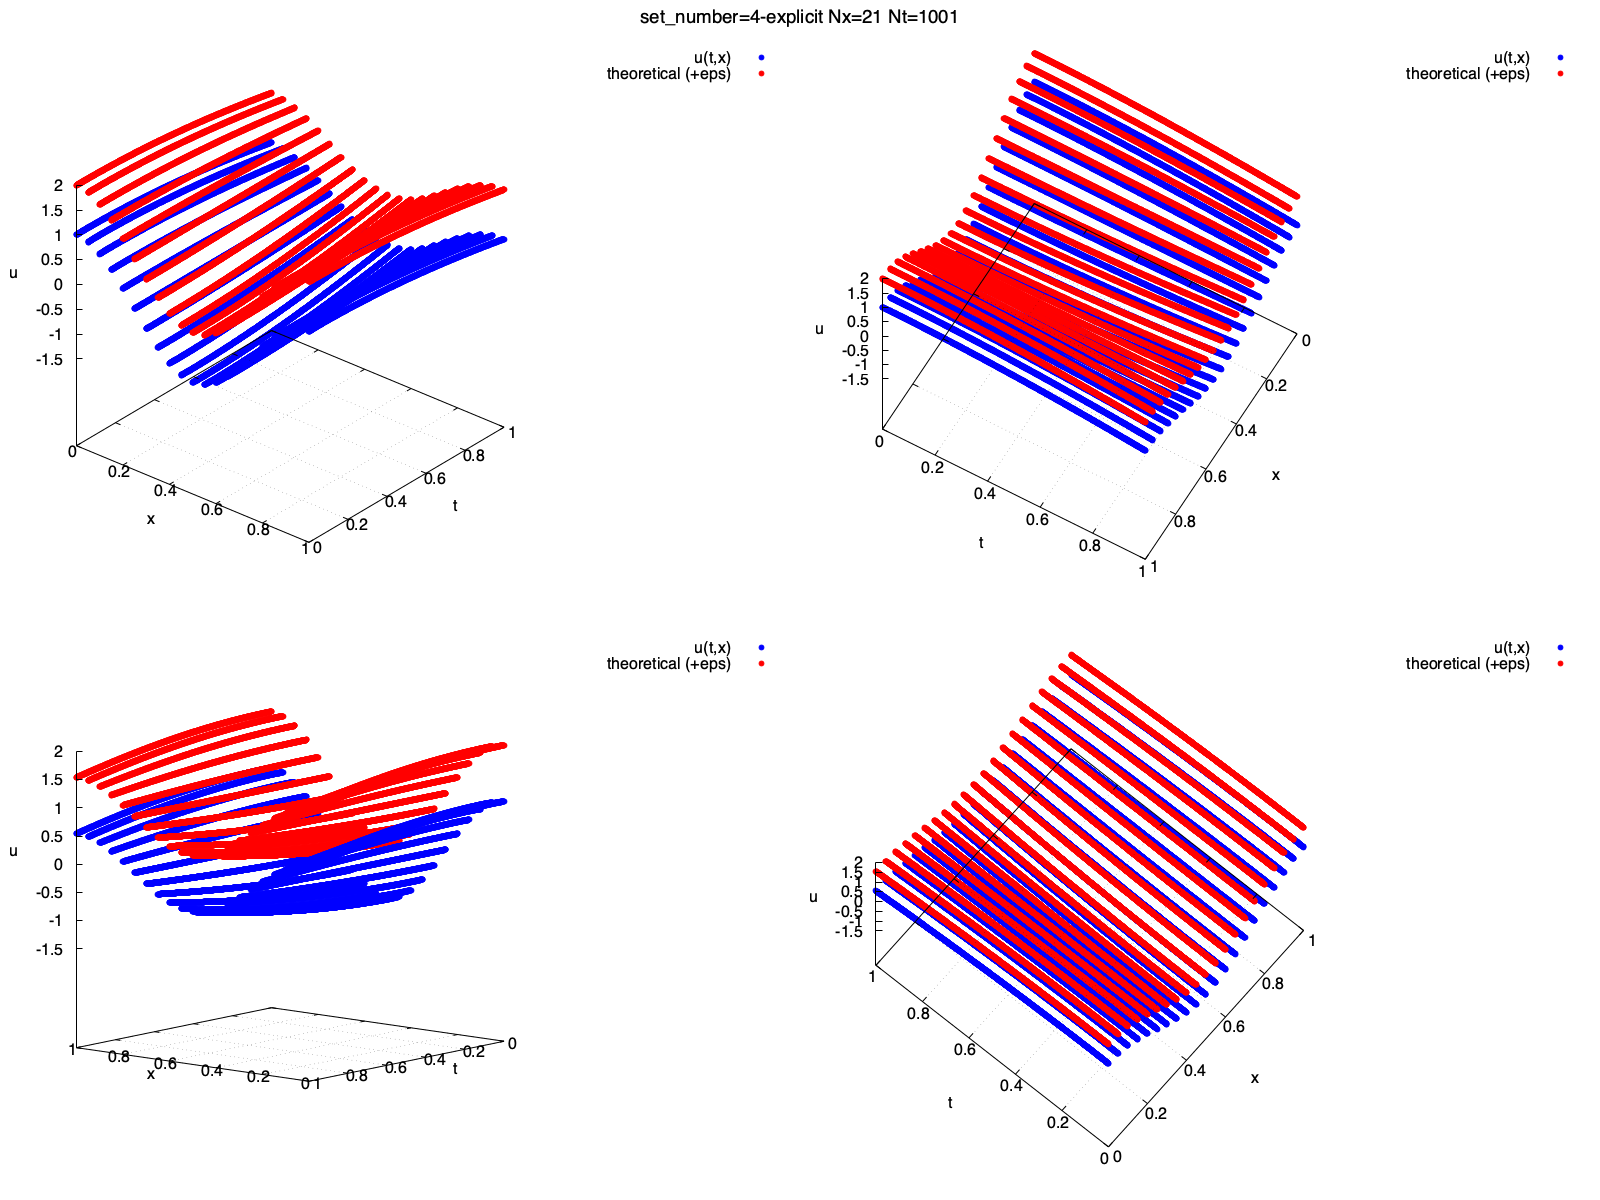
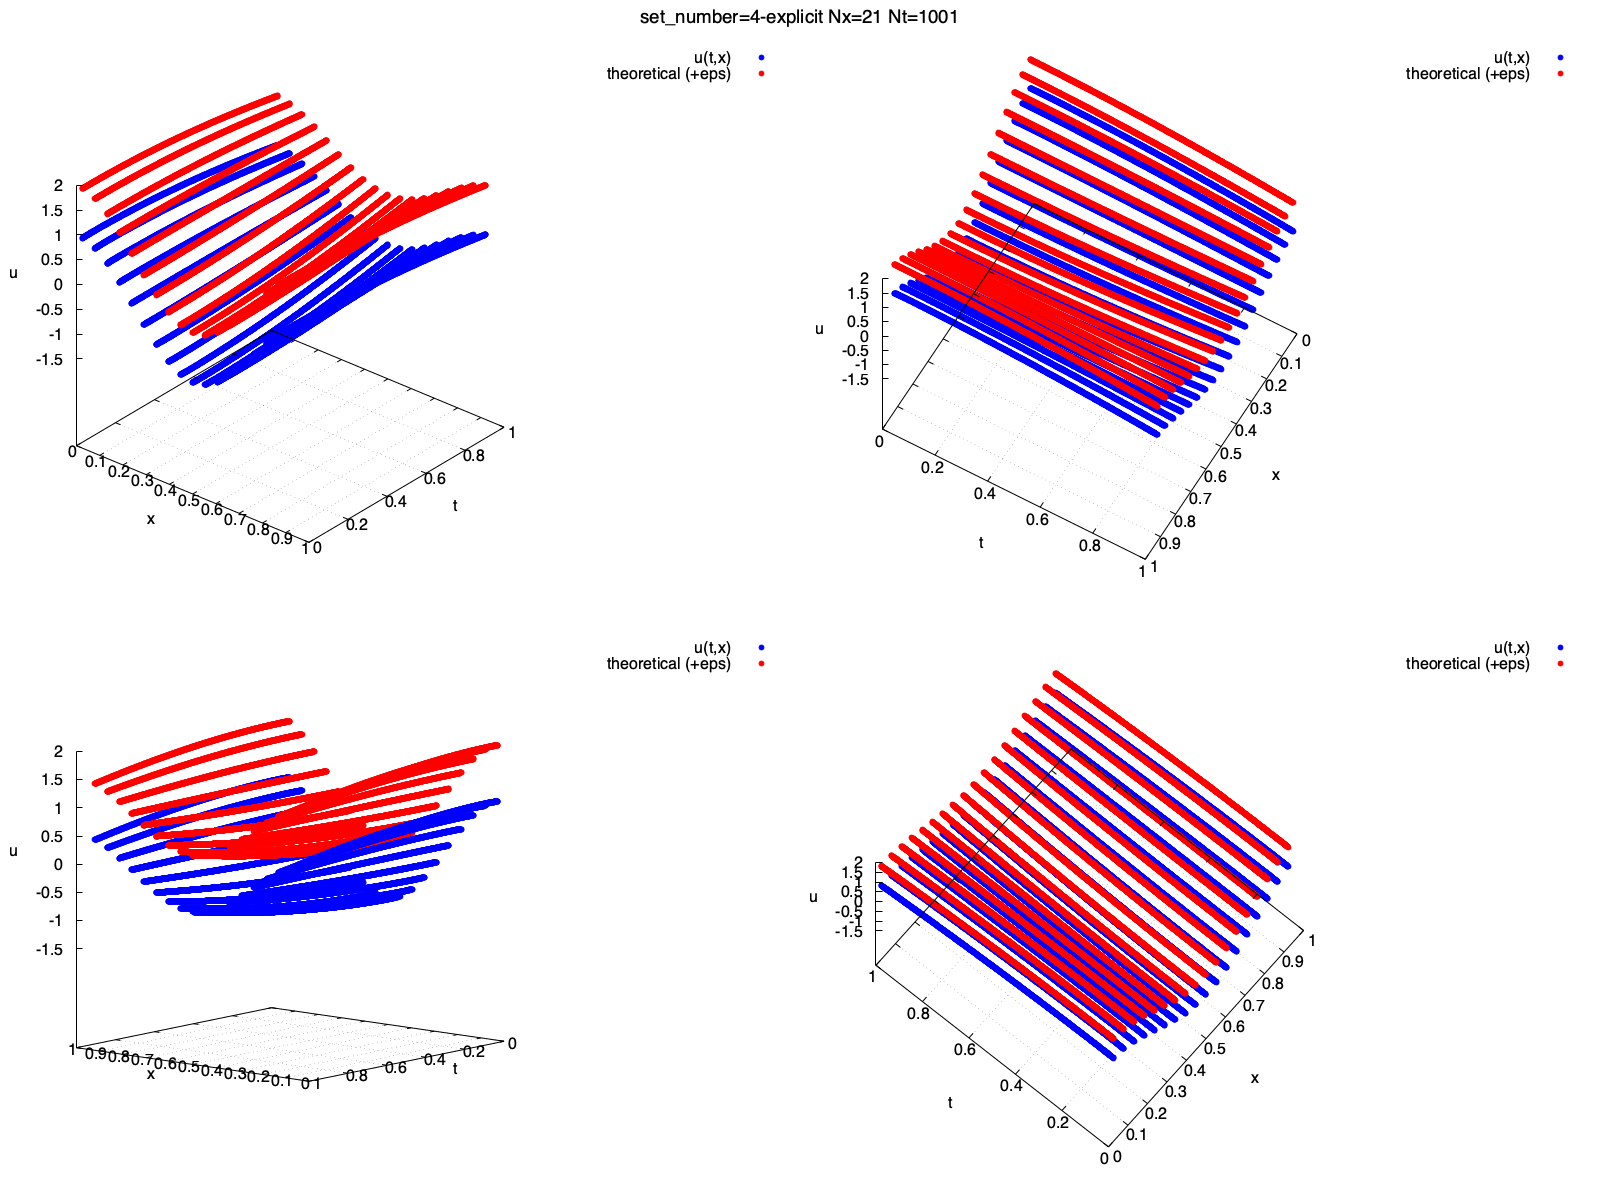
pu

diff --git a/task_7_files/task_7.c b/task_7_files/task_7.c
@@ -10,7 +10,7 @@
 #define max(a, b) ((a) < (b) ? (b) : (a))
 
 int main(int argc, char *argv[]) {
-    int schema_type, set_number;
+    int schema_type, set_number, N;
     int number_of_points_x, number_of_points_t;
     double T;
     double h, tau, t, x;
@@ -63,26 +63,30 @@ int main(int argc, char *argv[]) {
             break;
     }
 
-    h = 1.0/(double)(number_of_points_x - 1);
+    h = 1.0/(double)(number_of_points_x - 2);
     tau = T/(double)(number_of_points_t - 1);
 
+    //Инициализируем
     initial = (double*)malloc(number_of_points_x * sizeof(double));
-    for (int i = 0; i < number_of_points_x; i++) {
-        initial[i] = u0(h * i);
+    for (int i = 1; i < number_of_points_x-1; i++) {
+        initial[i] = u0(h * i-h/2);
     }
+    initial[0] = initial[1];
+    initial[number_of_points_x-1] = initial[number_of_points_x-2];
 
     if (schema_type == 1) {
         u = solve_explicitly(initial, number_of_points_x, number_of_points_t, T, f_func, p_func);
     } 
     else {
+        N = number_of_points_x-2;
         // Неявная схема: (U^{n+1} - U^n)/tau = U_xx^{n+1} + p^{n+1} U^{n+1} + f^{n+1}
         r = tau/(h*h);
-        a = (double*)malloc((number_of_points_x-1) * sizeof(double));
-        b = (double*)malloc(number_of_points_x * sizeof(double));
-        c = (double*)malloc((number_of_points_x-1) * sizeof(double));
-        d = (double*)malloc(number_of_points_x * sizeof(double));
-        u = (double*)malloc(number_of_points_x * number_of_points_t * sizeof(double));
-        for (int i = 0; i < number_of_points_x; i++) {
+        a = (double*)malloc((N-1) * sizeof(double));
+        b = (double*)malloc(N * sizeof(double));
+        c = (double*)malloc((N-1) * sizeof(double));
+        d = (double*)malloc(N * sizeof(double));
+        u = (double*)malloc(N * number_of_points_t * sizeof(double));
+        for (int i = 0; i < N; i++) {
             u[i] = initial[i];
         }
 
@@ -90,25 +94,25 @@ int main(int argc, char *argv[]) {
             double t_next = j * tau;
 
             // Левая граница
-            b[0] = 1.0 + 2.0 * r - tau * p_func(t_next, 0.0);
+            b[0] = 1.0 + 2.0 * r - tau * p_func(t_next, h/2);
             c[0] = -2.0 * r;
-            d[0] = u[(j-1)*number_of_points_x] + tau * f_func(t_next, 0.0);
+            d[0] = u[(j-1)*N] + tau * f_func(t_next, h/2);
 
             // Внутренние узлы
-            for (int i = 1; i < number_of_points_x-1; i++) {
+            for (int i = 1; i < N-1; i++) {
                 a[i-1] = -r;
                 b[i] = 1.0 + 2.0 * r - tau * p_func(t_next, i * h);
                 c[i] = -r;
-                d[i] = u[(j-1)*number_of_points_x + i] + tau * f_func(t_next, i * h);
+                d[i] = u[(j-1)*N + i] + tau * f_func(t_next, i * h);
             }
 
             // Правая граница
-            a[number_of_points_x-2] = -2.0 * r;
-            b[number_of_points_x-1] = 1.0 + 2.0 * r - tau * p_func(t_next, 1.0);
-            d[number_of_points_x-1] = u[(j-1)*number_of_points_x + number_of_points_x-1] + tau * f_func(t_next, 1.0);
+            a[N-1] = -2.0 * r;
+            b[N-1] = 1.0 + 2.0 * r - tau * p_func(t_next, 1.0);
+            d[N-1] = u[(j-1)*N + N-1] + tau * f_func(t_next, 1.0);
 
             // Решаем трёхдиагональную систему
-            progonka(a, b, c, number_of_points_x, d, &u[j*number_of_points_x]);
+            progonka(a, b, c, N, d, &u[j*number_of_points_x+1]);
         }
 
         free(a); free(b); free(c); free(d);
@@ -119,8 +123,8 @@ int main(int argc, char *argv[]) {
     max_diff = 0.0;
     for (int j = 0; j < number_of_points_t; j++) {
         t = tau * j;
-        for (int i = 0; i < number_of_points_x; i++) {
-            x = h * i;
+        for (int i = 1; i < number_of_points_x-2; i++) {
+            x = h * i - h/2;
             u_num = u[j * number_of_points_x + i];
             u_th = u_theor(t, x);
             diff = fabs(u_num - u_th);
